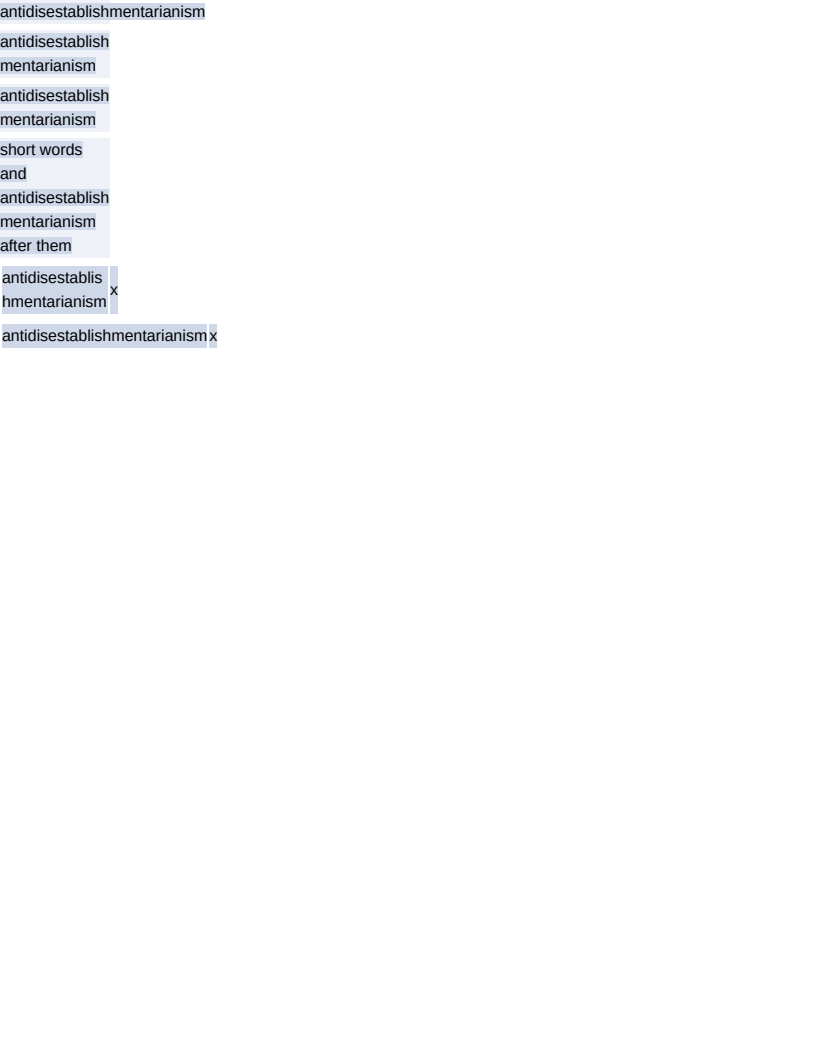
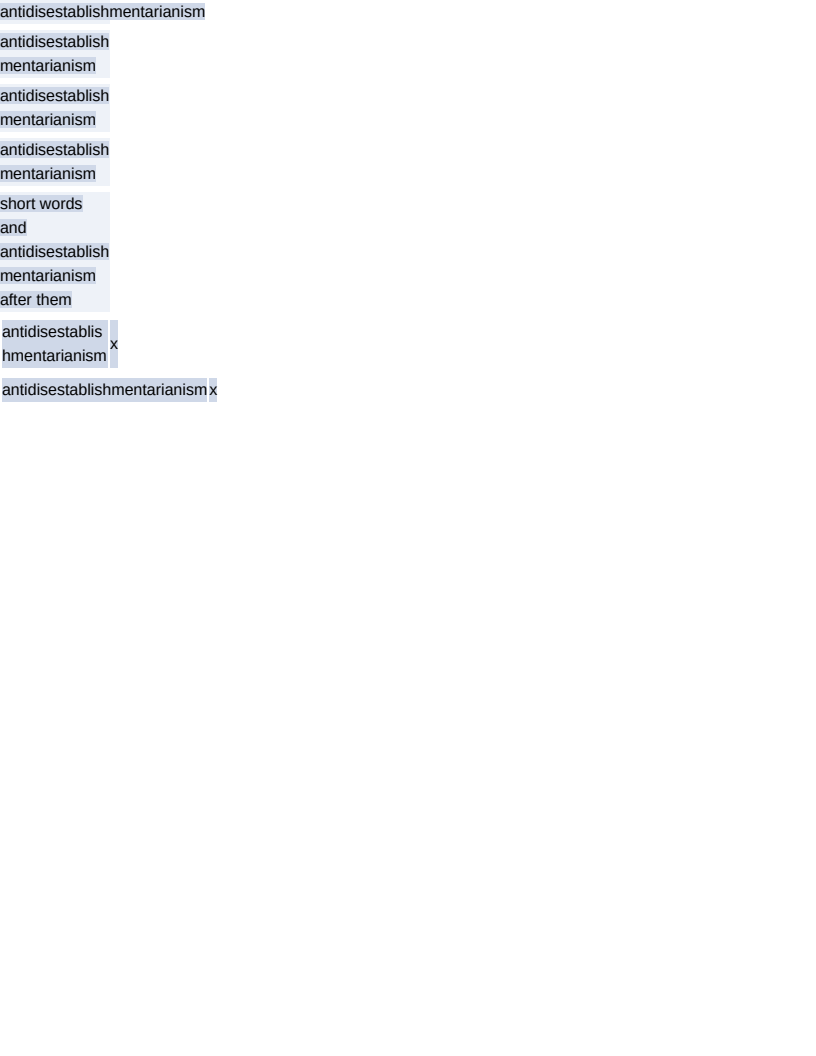
Read word-wrap, the spelling most documents carry
overflow-wrap was read and word-wrap was not, and the cascade does not alias them: a
word-wrap declaration comes back under that name and leaves overflow-wrap empty, exactly
as the two break-property spellings do. So a document written the legacy way broke nothing
and reported nothing at all — the silent gap the diagnostic table exists to prevent.

It is the spelling that matters more in practice. word-wrap predates overflow-wrap by a
decade and is still what reporting tools and mail merges emit, which is the same argument
that made page-break-before worth reading beside break-before.

text/word_break gains the row. With only the modern spelling read it fails by 96px and a
line; with both, the scenario is pixel-identical to Chrome and exact on all 22 boxes.

Changed region(s): [[0.0, 0.125, 0.2757, 0.4062]]

diff --git a/src/Krilla.Html.Tests/Inputs/text/word_break/input.css b/src/Krilla.Html.Tests/Inputs/text/word_break/input.css
@@ -10,6 +10,12 @@ span { background-color: #cfd8e8; }
 /* break-all breaks anywhere, whether or not the line would overflow. */
 #all { word-break: break-all; }
 
+/* The LEGACY spelling, which is what most documents in the wild carry: `word-wrap` predates
+   `overflow-wrap` by a decade and is still what reporting tools and mail merges emit. The cascade
+   does not alias the two — it hands `word-wrap` back under its own name and leaves `overflow-wrap`
+   empty — so a document written this way broke nothing and reported nothing. */
+#legacy { word-wrap: break-word; }
+
 /* break-word with ordinary words before it: those still break at spaces. */
 #mixed { overflow-wrap: break-word; }
 

diff --git a/src/Krilla.Html.Tests/Inputs/text/word_break/input.html b/src/Krilla.Html.Tests/Inputs/text/word_break/input.html
@@ -1,6 +1,7 @@
 <div id="overflow"><span id="a">antidisestablishmentarianism</span></div>
 <div id="wrap"><span id="b">antidisestablishmentarianism</span></div>
 <div id="all"><span id="c">antidisestablishmentarianism</span></div>
+<div id="legacy"><span id="e">antidisestablishmentarianism</span></div>
 <div id="mixed"><span id="d">short words and antidisestablishmentarianism after them</span></div>
 <table id="column"><tr><td id="cell">antidisestablishmentarianism</td><td>x</td></tr></table>
 <table id="wide"><tr><td id="widecell">antidisestablishmentarianism</td><td>x</td></tr></table>

diff --git a/src/Krilla.Html/Styling/StyleResolver.cs b/src/Krilla.Html/Styling/StyleResolver.cs
@@ -1877,10 +1877,20 @@ static class StyleResolver
     /// Whether a line may break inside a word, from either of the two properties that say so.
     /// </summary>
     /// <remarks>
+    /// <para>
     /// <c>word-break</c> is read first because <c>break-all</c> is the stronger permission: it
     /// breaks whether or not the word would overflow, where <c>overflow-wrap: break-word</c> breaks
     /// only a word that fits on no line at all. The values not listed — <c>keep-all</c> and
     /// <c>break-word</c> as a <c>word-break</c> value — are reported rather than approximated.
+    /// </para>
+    /// <para>
+    /// BOTH spellings of the second property are read, and the cascade does not alias them: a
+    /// <c>word-wrap</c> declaration comes back under that name and leaves <c>overflow-wrap</c>
+    /// empty, exactly as the two break-property spellings do. Reading only the modern one is a
+    /// defect that leaves every test written in it passing while the documents that matter — the
+    /// legacy spelling predates the modern one by a decade and is what reporting tools and mail
+    /// merges emit — break nothing and report nothing.
+    /// </para>
     /// </remarks>
     static WordBreaking ParseWordBreaking(ICssStyleDeclaration declaration, WordBreaking inherited)
     {
@@ -1889,13 +1899,30 @@ static class StyleResolver
             return WordBreaking.Always;
         }
 
-        return declaration.GetPropertyValue("overflow-wrap").Trim().ToLowerInvariant() switch
+        return Wrapping(declaration) switch
         {
             "anywhere" => WordBreaking.Always,
             "break-word" => WordBreaking.OnOverflow,
             "normal" => WordBreaking.Normal,
             _ => inherited
         };
+    }
+
+    /// <summary>
+    /// The declared <c>overflow-wrap</c>, under whichever of its two spellings carries it.
+    /// </summary>
+    /// <remarks>
+    /// The modern one is preferred and the legacy one is the fallback, which is the same precedence
+    /// the break properties take.
+    /// </remarks>
+    static string Wrapping(ICssStyleDeclaration declaration)
+    {
+        if (declaration.GetPropertyValue("overflow-wrap").Trim().ToLowerInvariant() is {Length: > 0} modern)
+        {
+            return modern;
+        }
+
+        return declaration.GetPropertyValue("word-wrap").Trim().ToLowerInvariant();
     }
 
     static TextDecorations ParseDecorations(ICssStyleDeclaration declaration, TextDecorations inherited)

diff --git a/src/Krilla.Html.Tests/Inputs/compare-all.md b/src/Krilla.Html.Tests/Inputs/compare-all.md
@@ -4623,6 +4623,13 @@ than which property asked for it. The two permissions differ, and the scenario s
   width at all.
 - `#all` has `word-break: break-all`, which breaks anywhere whether or not the word would overflow.
   On a single long word the two are indistinguishable, which is why the fourth row exists.
+- `#legacy` writes `word-wrap: break-word`, which is the same property under the spelling it had for
+  a decade before `overflow-wrap` existed and is still what reporting tools and mail merges emit.
+  The cascade does not alias the two — it hands `word-wrap` back under its own name and leaves
+  `overflow-wrap` empty, exactly as it does with the two break-property spellings — so a document
+  written this way broke nothing and reported nothing at all. Without the row the scenario is exact
+  either way; with it, and with only the modern spelling read, the word overflows and the page is a
+  line short.
 - `#mixed` is the row that told them apart, and it found a real defect. With ordinary words before
   the long one, the long word is first MOVED to a line of its own by the ordinary break rule, and
   the code that did so added it to the new line directly, so nothing afterwards ever asked whether
@@ -4640,7 +4647,7 @@ a browser draws nothing there, which is what separates this from `text/soft_hyph
 What to look at: the second line of `#mixed`. If the long word is intact and hanging out of the box,
 the split is being bypassed by the ordinary break.
 
-**Boxes**: 20 matched, worst offset 0.00px, worst size 0.00px.
+**Boxes**: 22 matched, worst offset 0.00px, worst size 0.00px.
 
 | Reference (Chrome) | Krilla.Html |
 | --- | --- |

diff --git a/src/Krilla.Html.Tests/Inputs/text/word_break/compare.md b/src/Krilla.Html.Tests/Inputs/text/word_break/compare.md
@@ -14,6 +14,13 @@ than which property asked for it. The two permissions differ, and the scenario s
   width at all.
 - `#all` has `word-break: break-all`, which breaks anywhere whether or not the word would overflow.
   On a single long word the two are indistinguishable, which is why the fourth row exists.
+- `#legacy` writes `word-wrap: break-word`, which is the same property under the spelling it had for
+  a decade before `overflow-wrap` existed and is still what reporting tools and mail merges emit.
+  The cascade does not alias the two — it hands `word-wrap` back under its own name and leaves
+  `overflow-wrap` empty, exactly as it does with the two break-property spellings — so a document
+  written this way broke nothing and reported nothing at all. Without the row the scenario is exact
+  either way; with it, and with only the modern spelling read, the word overflows and the page is a
+  line short.
 - `#mixed` is the row that told them apart, and it found a real defect. With ordinary words before
   the long one, the long word is first MOVED to a line of its own by the ordinary break rule, and
   the code that did so added it to the new line directly, so nothing afterwards ever asked whether
@@ -31,7 +38,7 @@ a browser draws nothing there, which is what separates this from `text/soft_hyph
 What to look at: the second line of `#mixed`. If the long word is intact and hanging out of the box,
 the split is being bypassed by the ordinary break.
 
-**Boxes**: 20 matched, worst offset 0.00px, worst size 0.00px.
+**Boxes**: 22 matched, worst offset 0.00px, worst size 0.00px.
 
 | Reference (Chrome) | Krilla.Html |
 | --- | --- |

diff --git a/src/Krilla.Html.Tests/Inputs/text/word_break/notes.md b/src/Krilla.Html.Tests/Inputs/text/word_break/notes.md
@@ -12,6 +12,13 @@ than which property asked for it. The two permissions differ, and the scenario s
   width at all.
 - `#all` has `word-break: break-all`, which breaks anywhere whether or not the word would overflow.
   On a single long word the two are indistinguishable, which is why the fourth row exists.
+- `#legacy` writes `word-wrap: break-word`, which is the same property under the spelling it had for
+  a decade before `overflow-wrap` existed and is still what reporting tools and mail merges emit.
+  The cascade does not alias the two — it hands `word-wrap` back under its own name and leaves
+  `overflow-wrap` empty, exactly as it does with the two break-property spellings — so a document
+  written this way broke nothing and reported nothing at all. Without the row the scenario is exact
+  either way; with it, and with only the modern spelling read, the word overflows and the page is a
+  line short.
 - `#mixed` is the row that told them apart, and it found a real defect. With ordinary words before
   the long one, the long word is first MOVED to a line of its own by the ordinary break rule, and
   the code that did so added it to the new line directly, so nothing afterwards ever asked whether
